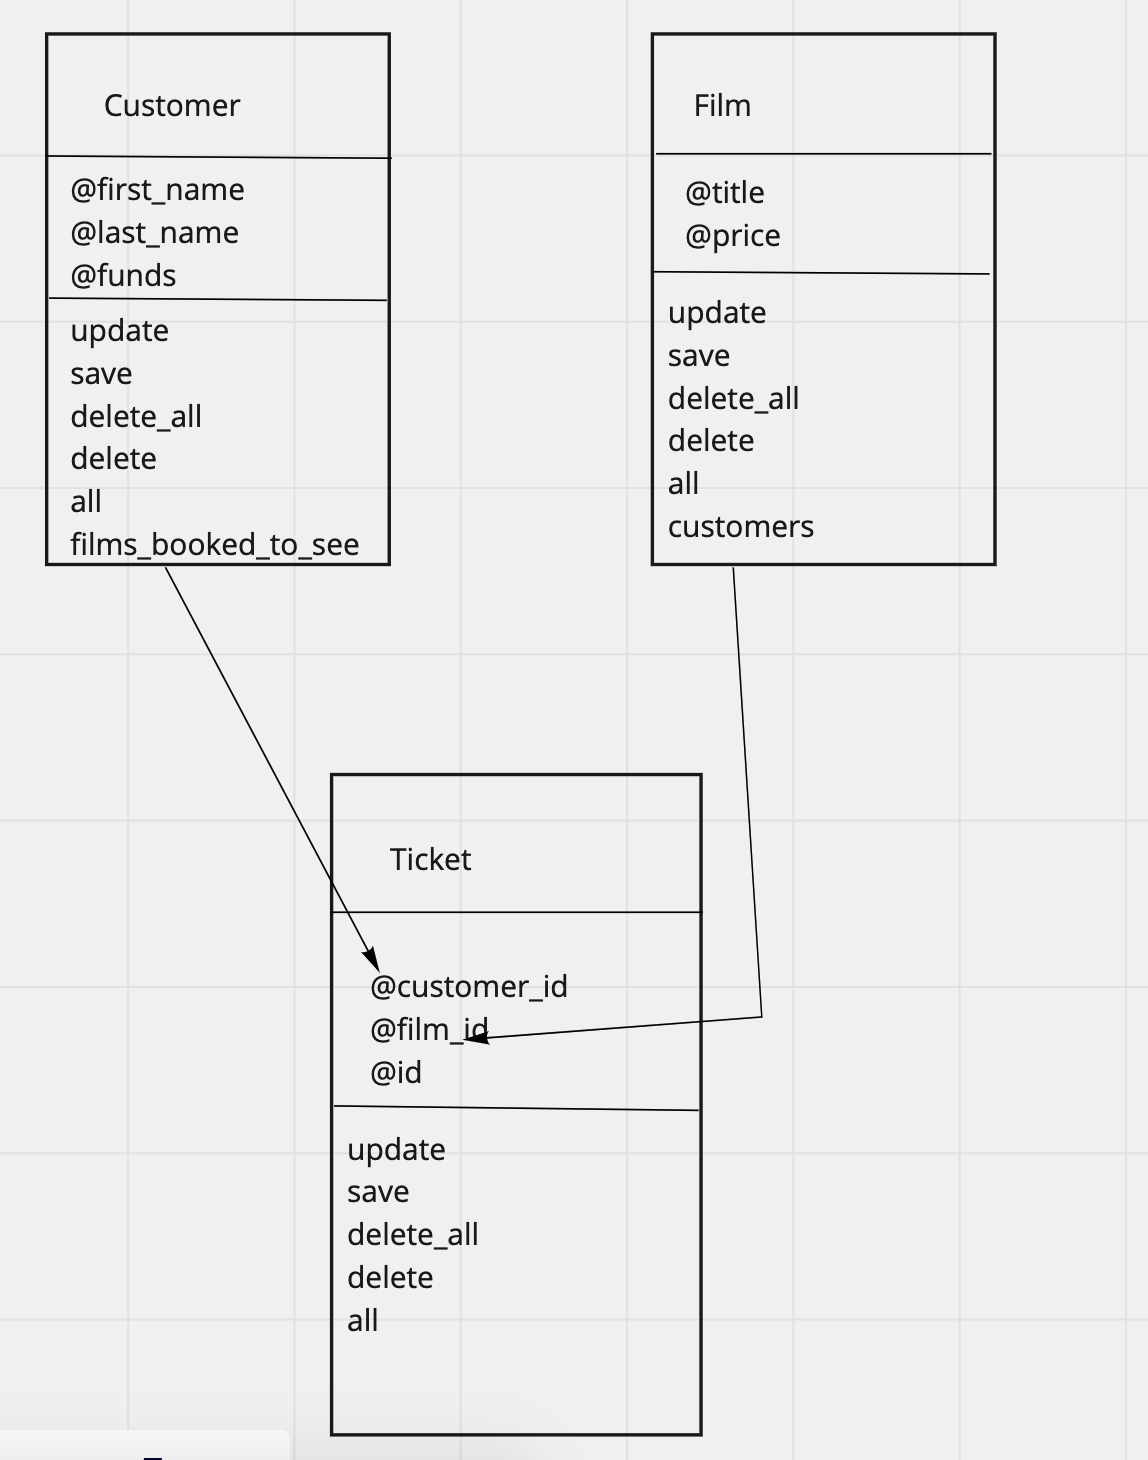
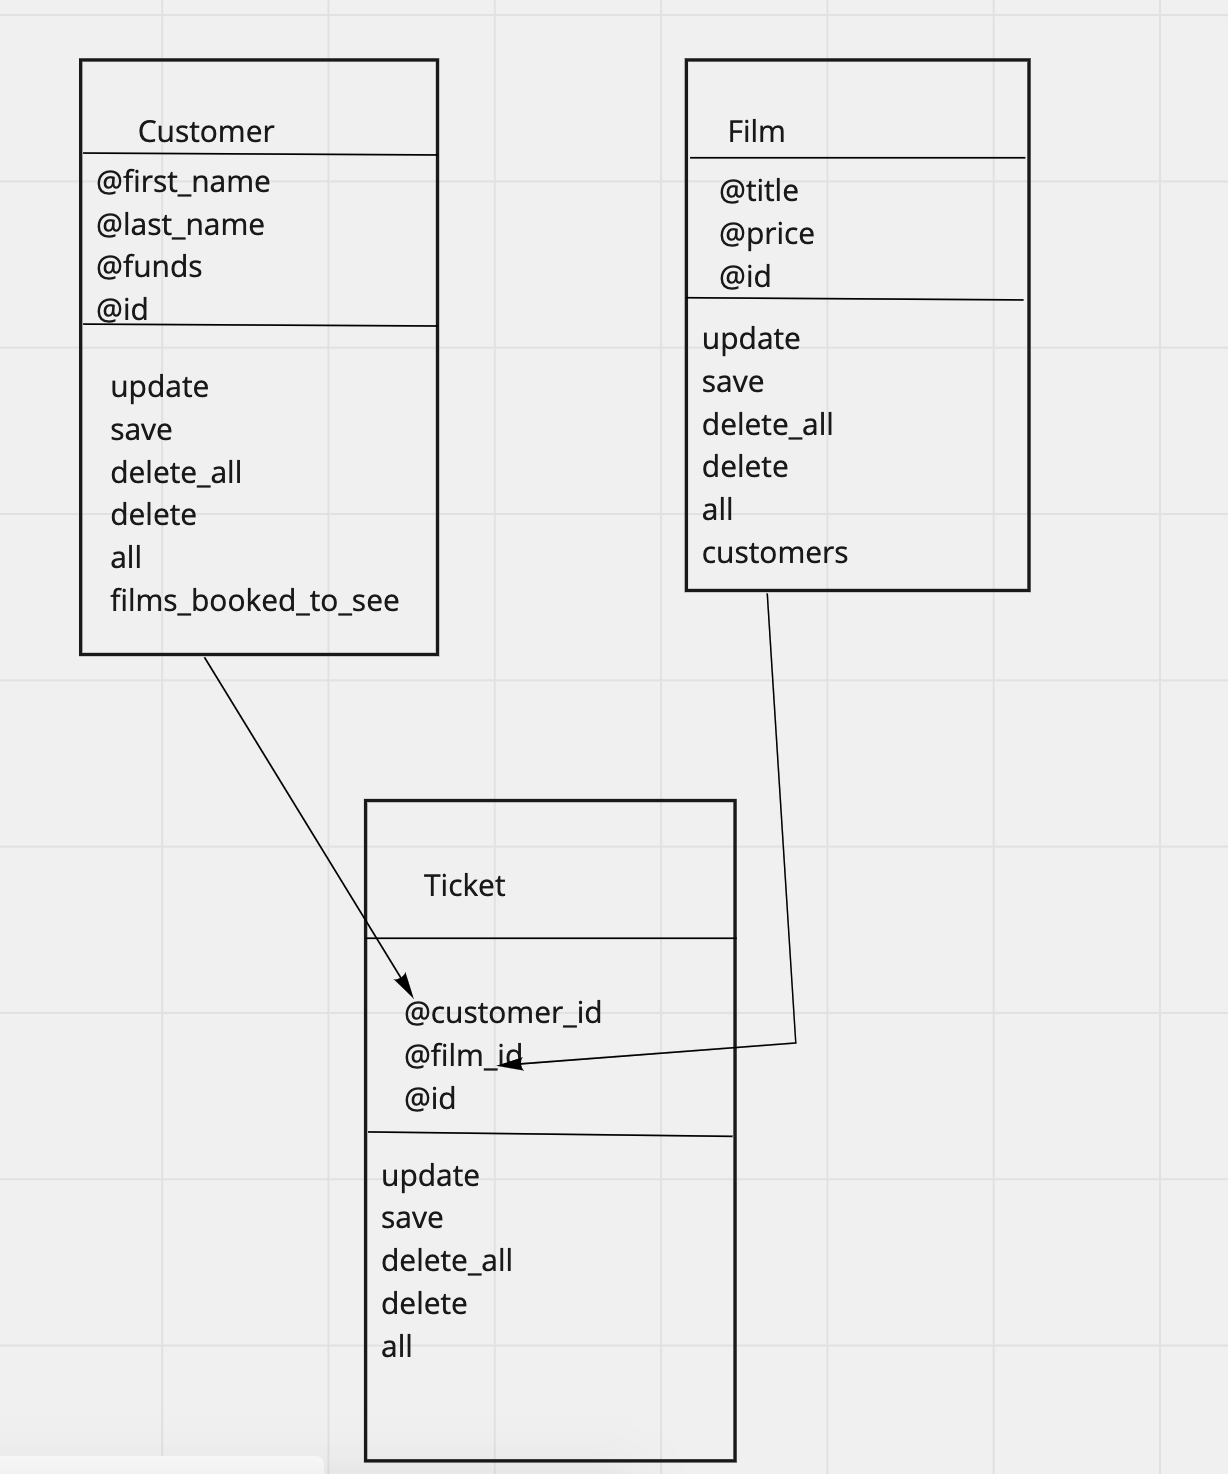
further update to class diagram. added sql to create db tables.

diff --git a/db/sql_runner.rb b/db/sql_runner.rb
@@ -4,7 +4,7 @@ class SqlRunner
 
   def self.run( sql, values = [] )
     begin
-      db = PG.connect({ dbname: 'imdb', host: 'localhost' })
+      db = PG.connect({ dbname: 'cinema', host: 'localhost' })
       db.prepare("query", sql)
       result = db.exec_prepared("query", values)
     ensure
